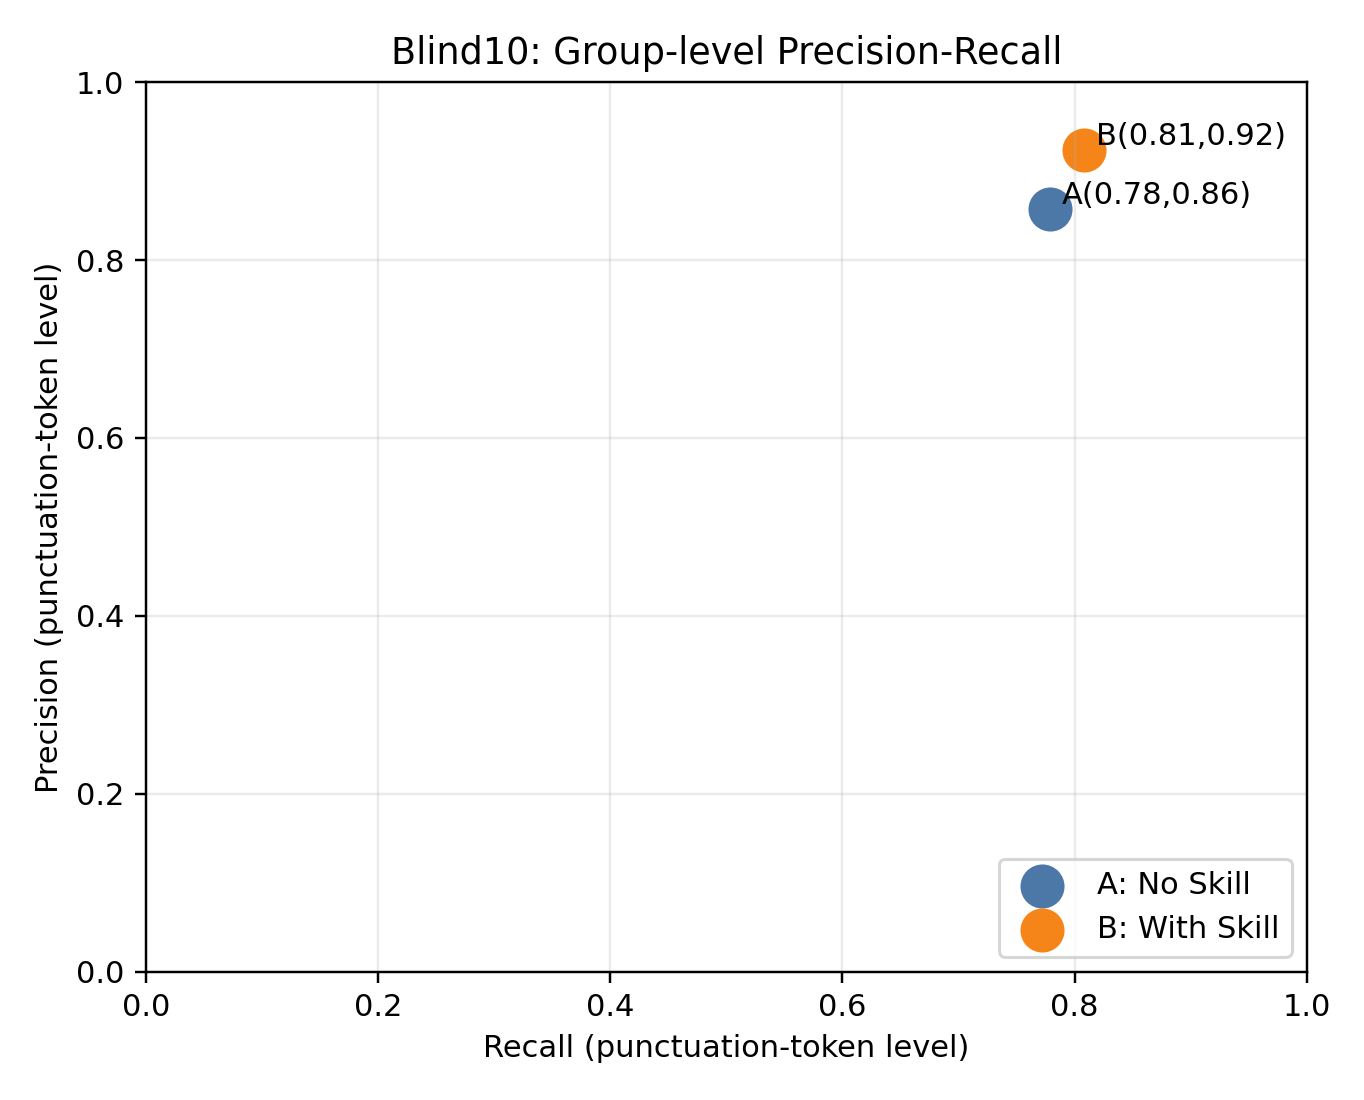
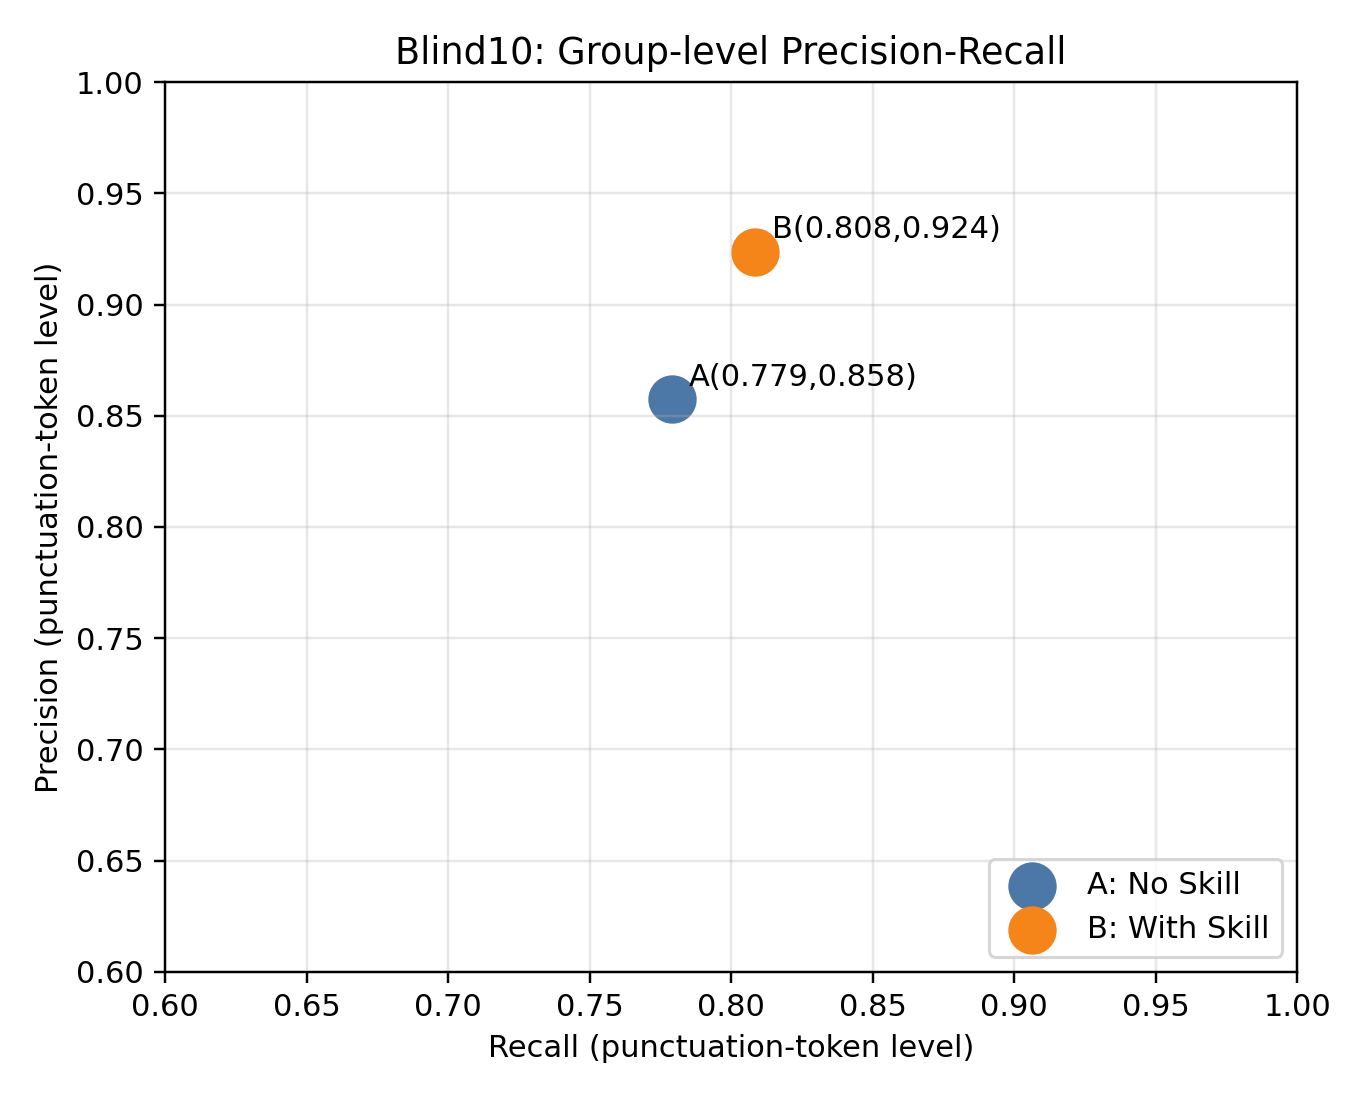
docs: simplify README visuals and tighten PR plot

diff --git a/README.md b/README.md
@@ -32,15 +32,11 @@
 
 ![Group Mean](./evaluation/figures/figure_group_mean.png)
 
-**3) 提升幅度（B-A）**
-
-![Delta](./evaluation/figures/figure_delta.png)
-
-**4) Precision-Recall（组级两个点）**
+**3) Precision-Recall（组级两个点）**
 
 ![PR](./evaluation/figures/figure_precision_recall.png)
 
-**5) 10×10 格子图（左5列无skill，右5列有skill）**
+**4) 10×10 格子图（左5列无skill，右5列有skill）**
 
 ![10x10 Grid](./evaluation/figures/figure_10x10_grid.png)
 
@@ -72,6 +68,5 @@ Details: `evaluation/blind10_scores.json`
 
 ![Agent Accuracy](./evaluation/figures/figure_agent_accuracy.png)
 ![Group Mean](./evaluation/figures/figure_group_mean.png)
-![Delta](./evaluation/figures/figure_delta.png)
 ![PR](./evaluation/figures/figure_precision_recall.png)
 ![10x10 Grid](./evaluation/figures/figure_10x10_grid.png)
